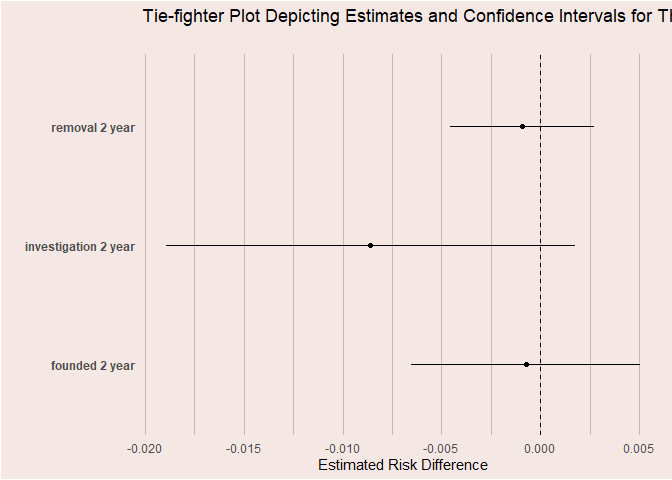
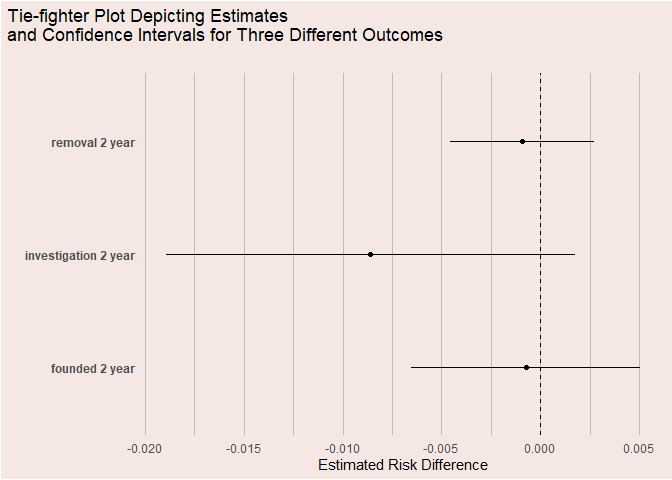
readme edits

diff --git a/README.md b/README.md
@@ -119,7 +119,7 @@ glm_obs <- list("removal 2 year" = estimate_effects_removal2year,
 
 create_tiefighter_plot(glm_obs,
                        x_title = "Estimated Risk Difference",
-                       title = "Tie-fighter Plot Depicting Estimates and Confidence Intervals for Three Different Outcomes",
+                       title = "Tie-fighter Plot Depicting Estimates\nand Confidence Intervals for Three Different Outcomes",
                        subtitle = "")
 ```
 
